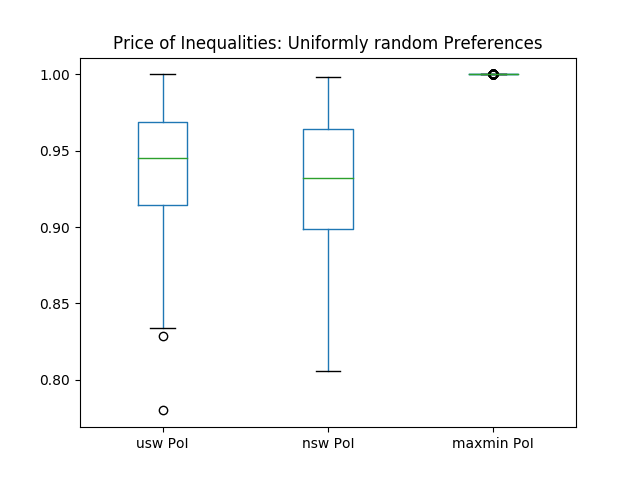
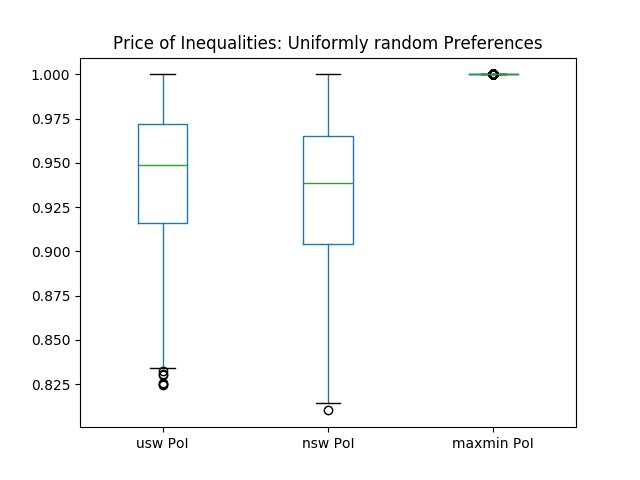
Adding linear regressions to NSW USW relationship

diff --git a/no-money/demo.py b/no-money/demo.py
@@ -10,6 +10,7 @@ import utils
 from sklearn.preprocessing import normalize
 from tabulate import tabulate
 from random import uniform
+from scipy import stats
 
 
 def main():
@@ -29,26 +30,31 @@ def main():
 	}
 
 
-	num_reps = 500
+	num_reps = 100
 
 	#global vars
-	n = 4 #number of agents
-	g = 4 #number of goods
-	alpha = [0.2, 0.2,0.2, 0.2] #value for inequality tolerance.
+	n = 3 #number of agents
+	g = 3 #number of goods
+	alpha = [0.2, 0.2, 0.2] #value for inequality tolerance.
 	util_type = 'linear'
 
 	for _ in range(num_reps):
 
 		data['inequality tolerance'].append(alpha)
 
+		# different variations of correlating preferences
 		#eps = 2. - np.sqrt(2)
 		#init_u = [[0.5, 0.5, 0.], [(1. -eps) / 2, (1. -eps) / 2, eps]]
-		eps = 0.05
-		#init_u = list(normalize([[1., 1., uniform(0, eps)], [1 - eps + uniform(-eps, eps), 1. - eps + uniform(-eps, eps), 2. * eps + uniform(-eps, eps)]], axis=1, norm='l1'))
 		#eps = 0.05
-		#init_u = [[1. - eps, eps, 0.], [0.5 + eps, 0, 0.5 - eps], [0., 0.5, 0.5]]
-		#print(init_u)
-		init_u = list(normalize(np.random.rand(n,g), axis=1, norm='l1'))
+		#init_u = list(normalize([[1., 1., uniform(0, eps)], [1 - eps + uniform(-eps, eps), 1. - eps + uniform(-eps, eps), 2. * eps + uniform(-eps, eps)]], axis=1, norm='l1'))
+		
+		# example studied in meeting
+		eps = 0.05
+		init_u = [[1. - eps, eps, 0.], [0.5 + eps, 0, 0.5 - eps], [0., 0.5, 0.5]]
+		
+
+		# uniformly random utilities
+		#init_u = list(normalize(np.random.rand(n,g), axis=1, norm='l1'))
 		data['utilities'].append([init_u])
 
 		#initialize players
@@ -113,11 +119,14 @@ def main():
 
 
 
-	utils.spPoI(df, 'usw PoI', 'nsw PoI', 'Price of Inequality: NSW vs USW optimization', 'figs/PoI_NSW_USW_uniformprefs_4players.png')
+
+	slope, intercept, r_value, p_value, std_err = stats.linregress(df['usw PoI'], df['nsw PoI'])
+	utils.spPoI(df, 'usw PoI', 'nsw PoI', 'Price of Inequality: NSW vs USW optimization', 'figs/PoI_NSW_USW_corrprefs_3players_wr2.png', rsq=r_value, slope=slope, yint=intercept)
 	#utils.spPoI(df, 'usw PoI', 'maxmin PoI', 'Price of Inequality: Max-Min vs USW optimization', 'figs/PoI_maxmin_USW_uniformprefs_4players.png')
 	#utils.spPoI(df, 'nsw PoI', 'maxmin PoI', 'Price of Inequality: Max-Min vs NSW optimization', 'figs/PoI_maxmin_NSW_uniformprefs.png')
 
-	utils.boxplot(df, ['usw PoI', 'nsw PoI', 'maxmin PoI'],plottitle='Price of Inequalities: Uniformly random Preferences', filename='figs/boxplot_PoIs_uniformprefs_4players.png')
+	#utils.boxplot(df, ['usw PoI', 'nsw PoI', 'maxmin PoI'],plottitle='Price of Inequalities: Uniformly random Preferences', filename='figs/boxplot_PoIs_uniformprefs.png')
+
 
 
 

diff --git a/no-money/utils.py b/no-money/utils.py
@@ -98,10 +98,22 @@ def ploteffectc(player_dict, price_include_sw = True, ineq='gini', auct='asc'):
 		plt.savefig('figs/c_impact_price_gini_' + str(pi_sw) + str(auct) + '.png');		
 
 
-def spPoI(df, xname, yname, plottitle, filename):
+def spPoI(df, xname, yname, plottitle, filename, rsq=None, slope=None, yint=None):
 	plt.figure()
 	df.plot.scatter(x=xname, y=yname)
-	plt.title(plottitle)
+	if slope is not None:
+		mn=np.min(df[xname])
+		mx=np.max(df[xname])
+		x1=np.linspace(mn,mx,500)
+		y1=slope*x1+yint
+		plt.plot(x1,y1,'-r')
+	if rsq is not None:
+		plt.title(plottitle + ' $r^2$ = {rsq:.2f}'.format(rsq=rsq))
+	else:
+		plt.title(plottitle)
+
+	
+	
 	plt.savefig(filename);
 
 def boxplot(df, cols, plottitle='Price of Inequality by varying SW metrics', filename='figs/boxplot_PoIs.png'):
